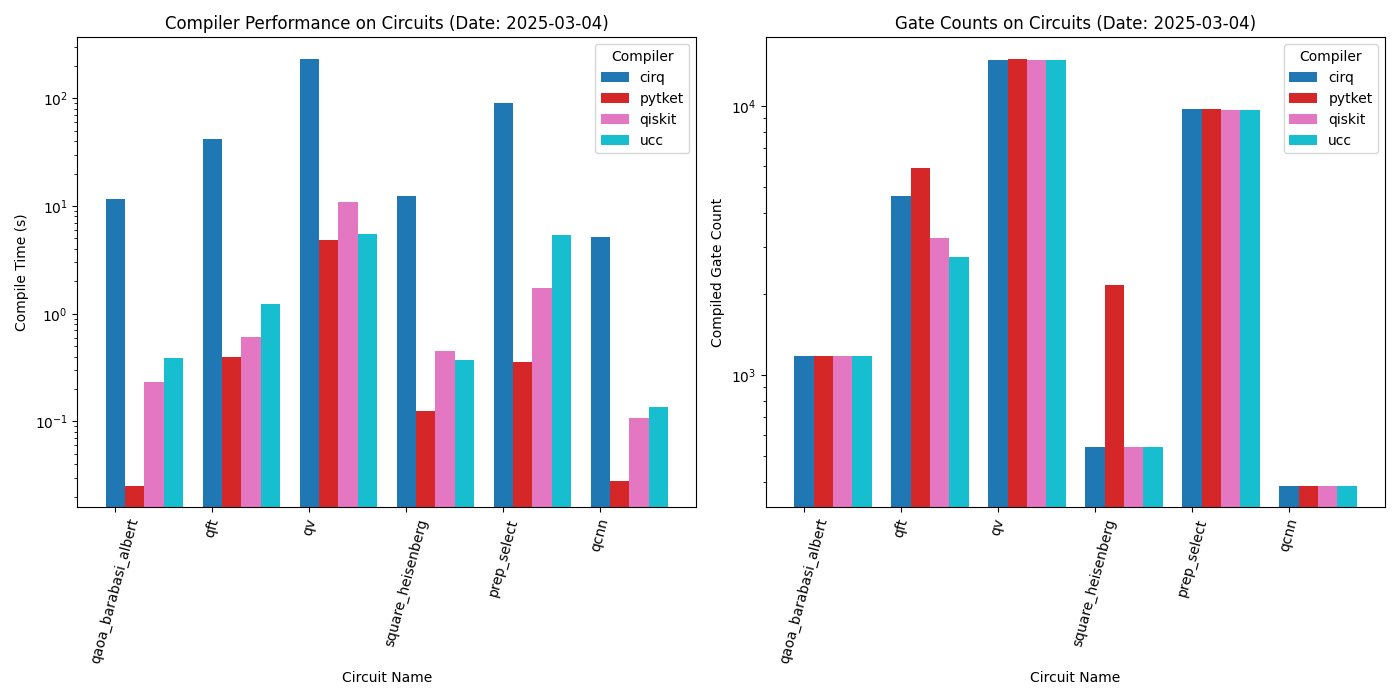
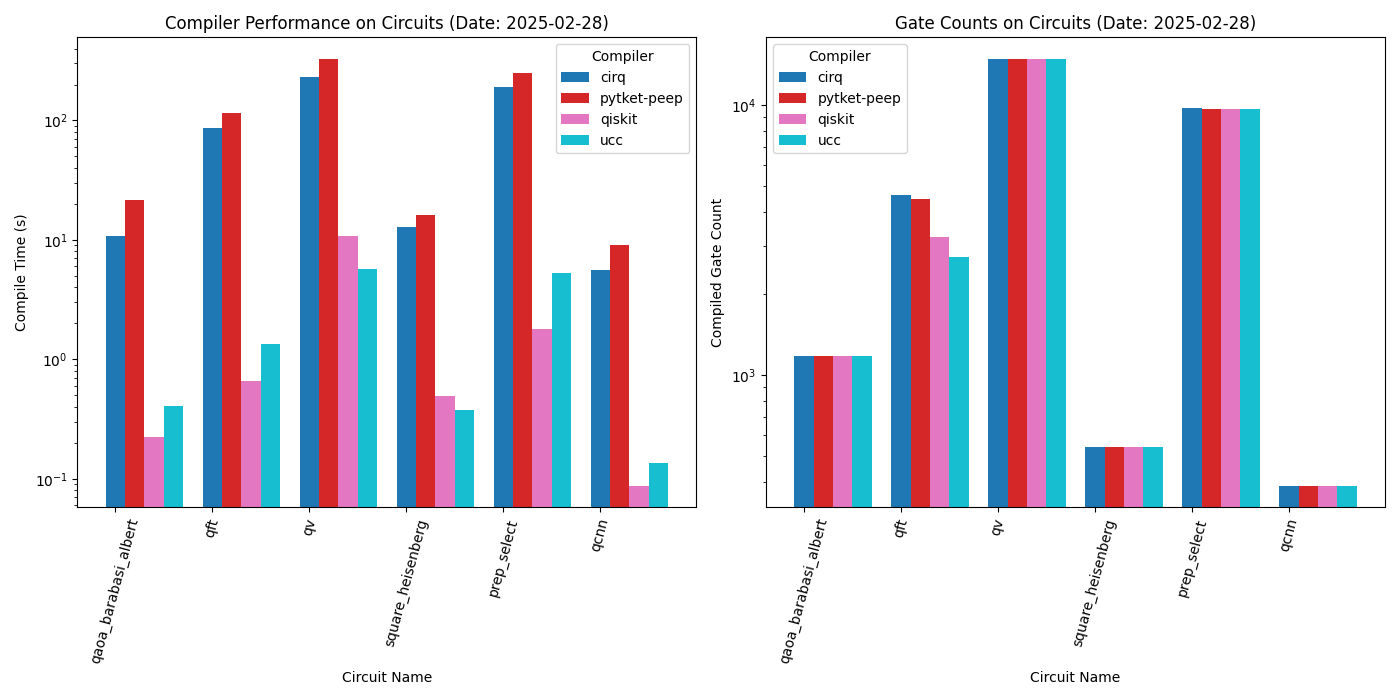
Switch PyTket to use FullPeepHoleOptimize (#266)
* Initial benchmarks on my local machine show if we use PyTKET's latest FullPeepholeOptimize (rather than a smaller subset of passes), the compile time is ~72× slower than qiskit, ~40× slower than ucc, and ~3.4× slower than cirq.

* Update benchmark results [benchmark chore]

* Move locally run data into test folder, plot only Peephole PyTKET run for 2025-2-26

* Remove unused imports

* Ruff format

* Update benchmark results [benchmark chore]

* Add method flag for pytket_compile, defaults to peephole

* Switched from pytket method flag to separate functions for peephole (and next kak)

* Update benchmark results [benchmark chore]

* Delete local runs

* Update all references to use pytket-peep instead of pytket, remove pytket data from plots

* Update benchmark results [benchmark chore]

* Reformatted: Testing reverse order of benchmarking for reference. Will revert in next commit

* Revert "Reformatted: Testing reverse order of benchmarking for reference. Will revert in next commit"

This reverts commit b068e52bc5515162980abaef5197817a77fde11a.

---------

diff --git a/benchmarks/scripts/plot_avg_benchmarks_over_time.py b/benchmarks/scripts/plot_avg_benchmarks_over_time.py
@@ -23,18 +23,28 @@ def extract_compiler_versions(header):
 
 print("Loading data files...")
 for file in csv_files:
+    compiler_versions = {}
     with open(file, "r") as f:
         header_line = f.readline().strip()
         compiler_versions = extract_compiler_versions(header_line)
+
     date_label = str(file).split("_")[1].split(".")[0]
     df = pd.read_csv(file, header=1)
+
     df["date"] = date_label
     df["compiled_ratio"] = df["compiled_multiq_gates"] / df["raw_multiq_gates"]
+    if "pytket-peep" in df["compiler"].unique():
+        compiler_versions["pytket-peep"] = compiler_versions["pytket"]
+        # Remove pytket from compiler_versions for this datafile
+        compiler_versions.pop("pytket")
     df["compiler_version"] = df["compiler"].map(compiler_versions)
 
     dataframes.append(df)
 
 df_dates = pd.concat(dataframes, ignore_index=True)
+
+# Remove older implementation of pytket from the data
+df_dates = df_dates[df_dates["compiler"] != "pytket"]
 
 # Find the average compiled ratio for each compiler on each date
 avg_compiled_ratio = (
@@ -92,7 +102,6 @@ for date in avg_compiled_ratio["date"].unique():
     date_data = avg_compiled_ratio[avg_compiled_ratio["date"] == date]
     # Sort date_data in order of compiled_ratio
     date_data = date_data.sort_values("compiled_ratio")
-    # print('Date data for \n', date, date_data, '\n')
     # Now iterate over each compiler entry and annotate if it's a new version
     for _, row in date_data.iterrows():
         # Get the version for this date
@@ -121,7 +130,7 @@ for date in avg_compiled_ratio["date"].unique():
             # Update the last seen version for this compiler
             last_version_seen[compiler] = current_version
     # previous_bboxes = [] # Reset previous bboxes for next date
-adjust_axes_to_fit_labels(ax[0], x_scale=1.01, y_scale=1.05)
+adjust_axes_to_fit_labels(ax[0], x_scale=1.01, y_scale=1.3)
 # Set y axis range to be slightly larger than data range
 
 ax[0].set_title("Average Compiled Ratio over Time")
@@ -188,7 +197,7 @@ ax[1].set_ylabel("Compile Time (s)")
 ax[1].set_xlabel("Date")
 ax[1].set_yscale("log")
 ax[1].legend(title="Compiler")
-adjust_axes_to_fit_labels(ax[1], x_scale=1.01, y_scale=1.75, y_log=True)
+adjust_axes_to_fit_labels(ax[1], x_scale=1.01, y_scale=1.9, y_log=True)
 
 plt.xticks(rotation=45)
 plt.tight_layout()

diff --git a/benchmarks/scripts/common.py b/benchmarks/scripts/common.py
@@ -9,11 +9,9 @@ from cirq import optimize_for_target_gateset
 import cirq
 from pytket.circuit import OpType
 from pytket.passes import (
-    DecomposeBoxes,
-    RemoveRedundancies,
     SequencePass,
-    SimplifyInitial,
     AutoRebase,
+    FullPeepholeOptimise,
 )
 from pytket.predicates import CompilationUnit
 import qiskit
@@ -61,8 +59,8 @@ def get_compile_function(compiler_alias):
     match compiler_alias:
         case "ucc":
             return ucc_compile
-        case "pytket":
-            return pytket_compile
+        case "pytket-peep":
+            return pytket_peep_compile
         case "qiskit":
             return qiskit_compile
         case "cirq":
@@ -80,24 +78,22 @@ def get_native_rep(qasm_string, compiler_alias):
     if compiler_alias == "ucc":
         # Qiskit used for UCC to get raw gate counts
         native_circuit = translate(qasm_string, "qiskit")
+    elif compiler_alias == "pytket-peep":
+        native_circuit = translate(qasm_string, "pytket")
     else:
         native_circuit = translate(qasm_string, compiler_alias)
 
     return native_circuit
 
 
-# PyTkets compilation
-def pytket_compile(pytket_circuit):
+# Uses FullPeepholeOptimise
+def pytket_peep_compile(pytket_circuit):
     compilation_unit = CompilationUnit(pytket_circuit)
-    seqpass = SequencePass(
-        [
-            SimplifyInitial(),
-            DecomposeBoxes(),
-            RemoveRedundancies(),
-            AutoRebase({OpType.Rx, OpType.Ry, OpType.Rz, OpType.CX, OpType.H}),
-        ]
-    )
-    seqpass.apply(compilation_unit)
+    passes = [
+        FullPeepholeOptimise(),
+        AutoRebase({OpType.Rx, OpType.Ry, OpType.Rz, OpType.CX, OpType.H}),
+    ]
+    SequencePass(passes).apply(compilation_unit)
     return compilation_unit.circuit
 
 
@@ -287,7 +283,7 @@ def count_multi_qubit_gates(circuit, compiler_alias):
             return count_multi_qubit_gates_qiskit(circuit)
         case "cirq":
             return count_multi_qubit_gates_cirq(circuit)
-        case "pytket":
+        case "pytket-peep":
             return count_multi_qubit_gates_pytket(circuit)
         case _:
             return "Unknown compiler alias."

diff --git a/benchmarks/scripts/expval_benchmark.py b/benchmarks/scripts/expval_benchmark.py
@@ -13,7 +13,7 @@ import numpy as np
 
 from common import (
     cirq_compile,
-    pytket_compile,
+    pytket_peep_compile,
     qiskit_compile,
     save_results,
     get_native_rep,
@@ -46,13 +46,13 @@ def compile_for_simulation(
             ucc_compiled.save_density_matrix()
             return ucc_compiled
 
-        case "pytket":
-            pytket_compiled = pytket.qasm.circuit_to_qasm_str(
-                pytket_compile(circuit)
+        case "pytket-peep":
+            pytket_peep_compiled = pytket.qasm.circuit_to_qasm_str(
+                pytket_peep_compile(circuit)
             )
-            pytket_compiled_qiskit = qasm2.loads(pytket_compiled)
-            pytket_compiled_qiskit.save_density_matrix()
-            return pytket_compiled_qiskit
+            pytket_peep_compiled_qiskit = qasm2.loads(pytket_peep_compiled)
+            pytket_peep_compiled_qiskit.save_density_matrix()
+            return pytket_peep_compiled_qiskit
 
         case "qiskit":
             qiskit_compiled = qiskit_compile(circuit)
